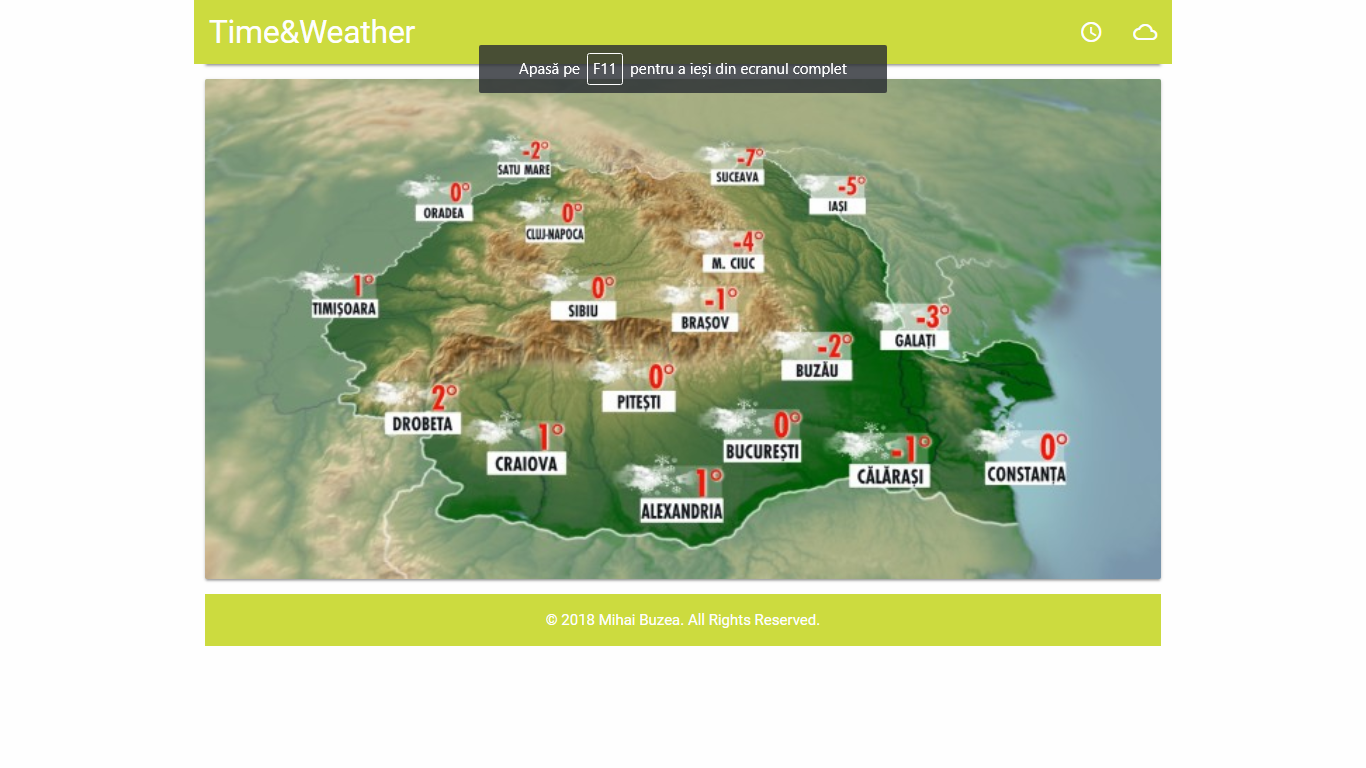
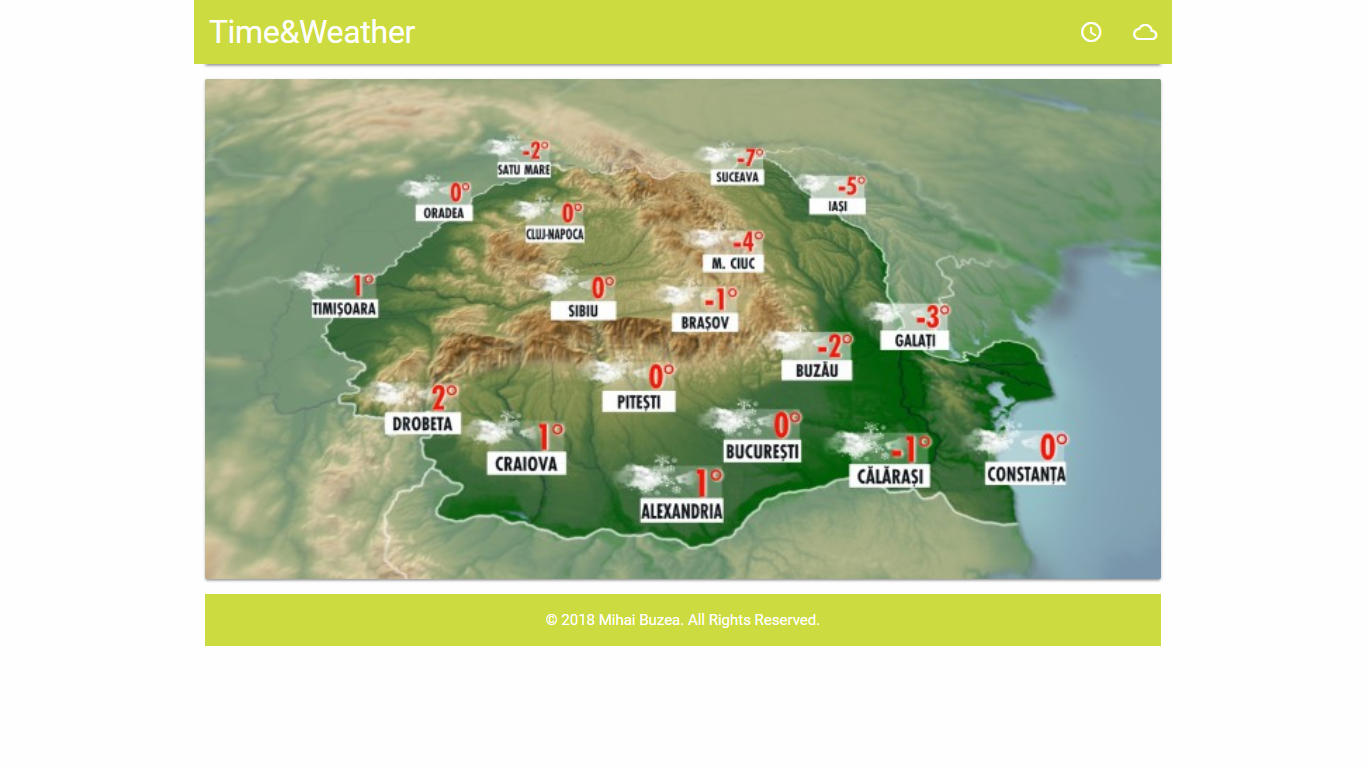
fix the second carousel

Changed region(s): [[0.3382, 0.0312, 0.6764, 0.125]]

diff --git a/projects.html b/projects.html
@@ -61,7 +61,7 @@
                                 </div>
                             </div>
                             <a class="carousel-control-prev" href="#carouselExampleIndicators" role="button" data-slide="prev">
-                                <span class="carousel-control-prev-icon" aria-hidden="true"  ></span>
+                                <span class="carousel-control-prev-icon" aria-hidden="true"></span>
                                 <span class="sr-only">Previous</span>
                             </a>
                             <a class="carousel-control-next" href="#carouselExampleIndicators" role="button" data-slide="next">
@@ -75,7 +75,7 @@
                     <div class="project">
                         <h6>Time&Weather</h6>
                         <p>Languages: <i class="fab fa-react"></i> ReactJS, MaterializeCss</p>
-                        <div id="carouselExampleIndicators" class="carousel slide" data-ride="carousel">
+                        <div id="carouselExampleIndicators2" class="carousel slide" data-ride="carousel">
                             <div class="carousel-inner">
                                 <div class="carousel-item active">
                                     <img class="d-block w-100" src="./image/1-1.png" alt="Second slide">
@@ -93,11 +93,11 @@
                                     <img class="d-block w-100" src="./image/1-5.png" alt="Third slide">
                                 </div>
                             </div>
-                            <a class="carousel-control-prev" href="#carouselExampleIndicators" role="button" data-slide="prev">
-                                <span class="carousel-control-prev-icon" aria-hidden="true"  ></span>
+                            <a class="carousel-control-prev" href="#carouselExampleIndicators2" role="button" data-slide="prev">
+                                <span class="carousel-control-prev-icon" aria-hidden="true"></span>
                                 <span class="sr-only">Previous</span>
                             </a>
-                            <a class="carousel-control-next" href="#carouselExampleIndicators" role="button" data-slide="next">
+                            <a class="carousel-control-next" href="#carouselExampleIndicators2" role="button" data-slide="next">
                                 <span class="carousel-control-next-icon" aria-hidden="true"></span>
                                 <span class="sr-only">Next</span>
                             </a>
